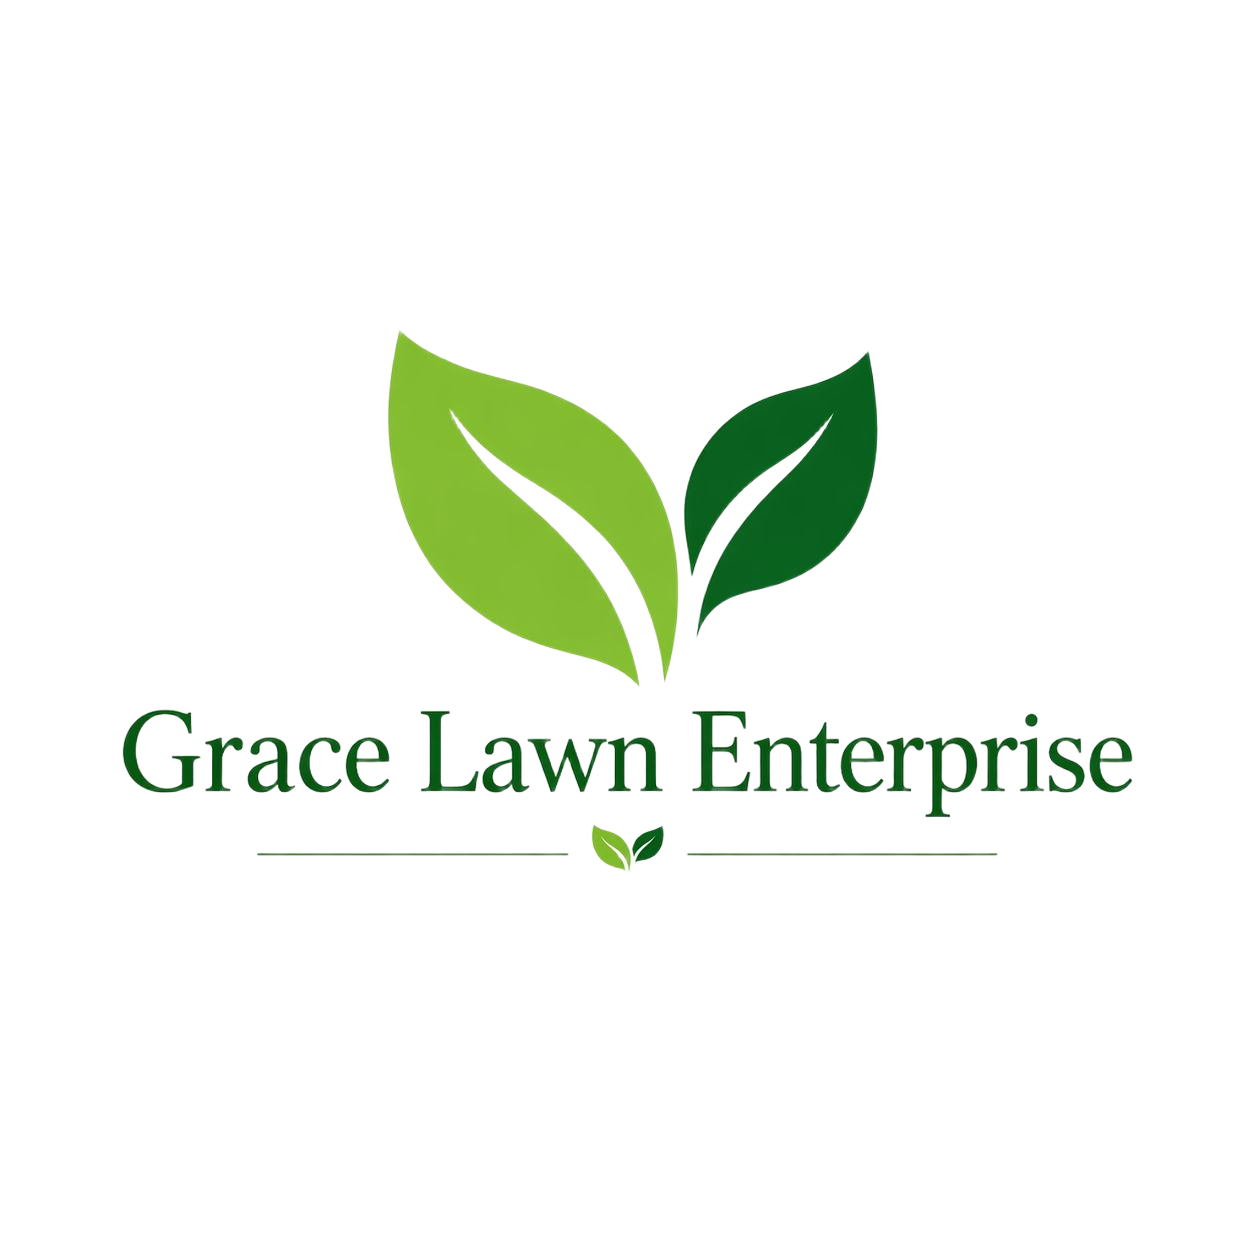
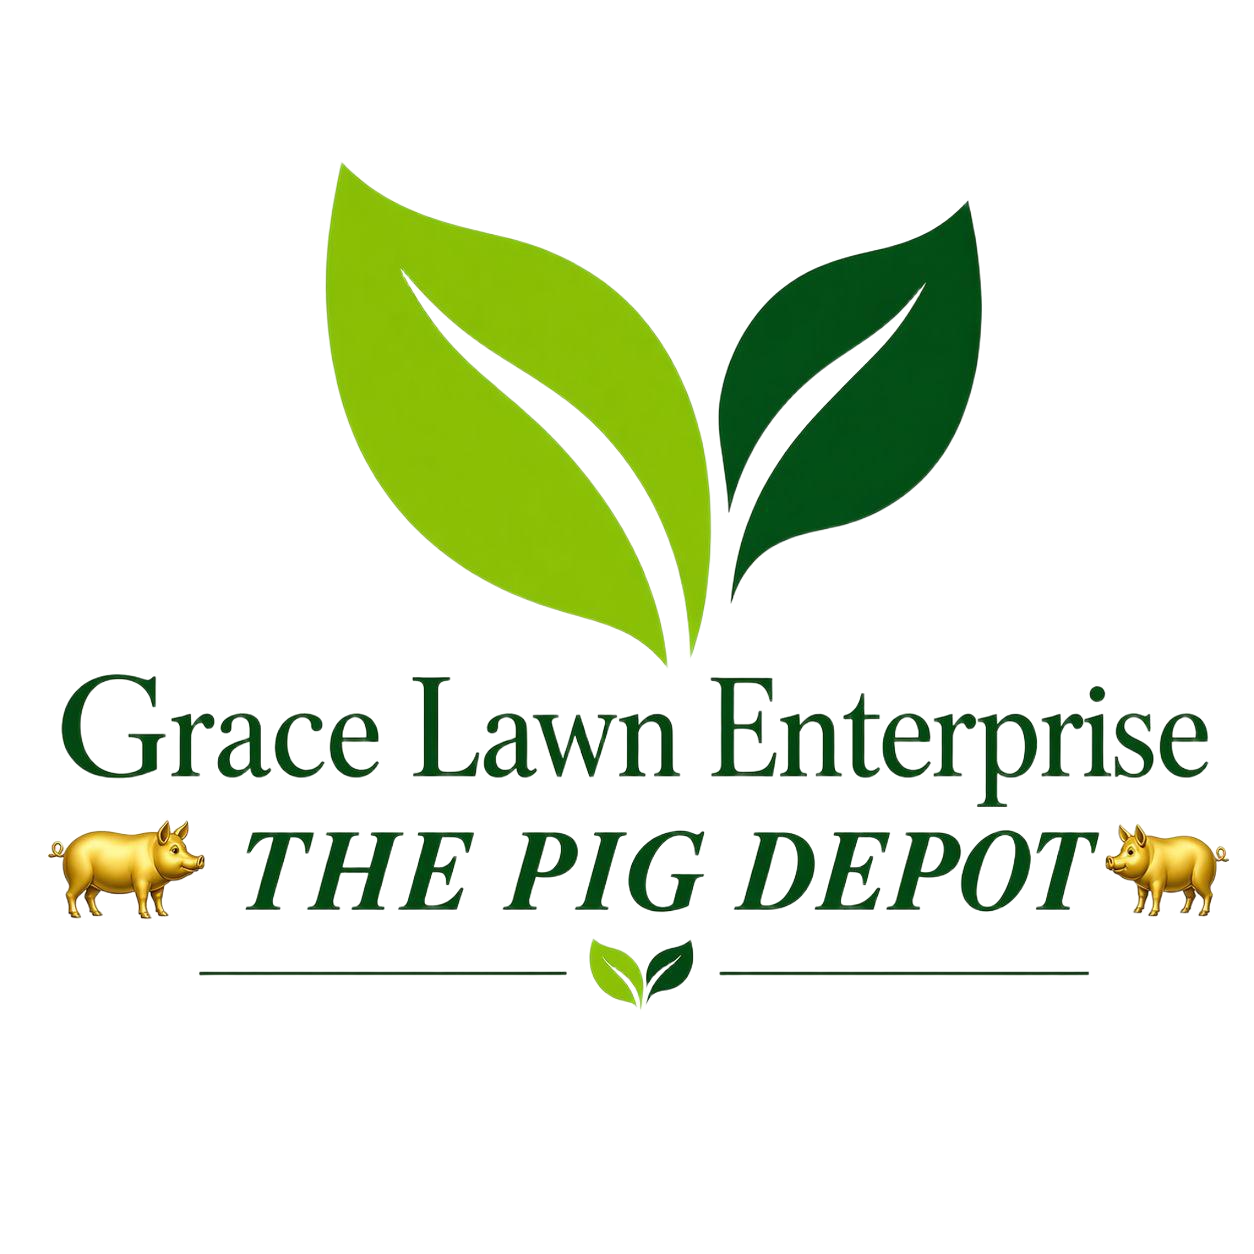
update

Changed region(s): [[0.0311, 0.1244, 0.9952, 0.8086]]

diff --git a/app/templates/main/index.html b/app/templates/main/index.html
@@ -18,7 +18,7 @@
       <i class="fas fa-leaf"></i> Premium Pig Farming · Badagry, Nigeria
     </div>
     <h1 class="font-display text-5xl md:text-7xl font-900 leading-tight mb-6">
-      {{ content.hero_title or "GraceLawn Enterprise" }}<br/><span class="text-light-green">{{ content.hero_subtitle or "The Pig Depot" }}</span>
+      {{ content.hero_title or "Grace Lawn Enterprise" }}<br/><span class="text-gold">{{ content.hero_subtitle or "The Pig Depot" }}</span>
     </h1>
     <p class="text-lg md:text-xl text-green-50 max-w-2xl mx-auto leading-relaxed mb-10 font-body font-300">
       {{ content.hero_tagline or "First-class pig farming rooted in excellence — delivering premium pig products to local and international markets with over 1,500 animals and 250 stocks monthly." }}
@@ -74,7 +74,7 @@
       </h2>
       <div class="leaf-divider"><i class="fas fa-seedling text-light-green text-sm"></i></div>
       <p class="text-gray-600 leading-relaxed mb-4">
-        <strong class="text-deep-green">GraceLawn Enterprise</strong> is a premium pig farm situated in Badagry, Lagos State, Nigeria. With a thriving herd of over 1,500 animals — including boars, sows, and piglets — we are a leading supplier of high-quality pig products.
+        <strong class="text-deep-green">Grace Lawn Enterprise</strong> is a premium pig farm situated in Badagry, Lagos State, Nigeria. With a thriving herd of over 1,500 animals — including boars, sows, and piglets — we are a leading supplier of high-quality pig products.
       </p>
       <p class="text-gray-600 leading-relaxed mb-6">
         Our major breeds include <span class="font-700 text-deep-green">Duroc, Landrace, Large White, TN70</span> and <span class="font-700 text-deep-green">Pietrain</span>. Each bred under responsible farm management to ensure the highest quality genetics and healthiest stock year-round.

diff --git a/app/models.py b/app/models.py
@@ -101,7 +101,7 @@ class SiteContent(db.Model):
 
 
 DEFAULT_CONTENT = {
-    "hero_title": "GraceLawn Enterprise",
+    "hero_title": "Grace Lawn Enterprise",
     "hero_subtitle": "The Pig Depot",
     "hero_tagline": "First-class pig farming rooted in excellence...",
     "hero_image": "",
